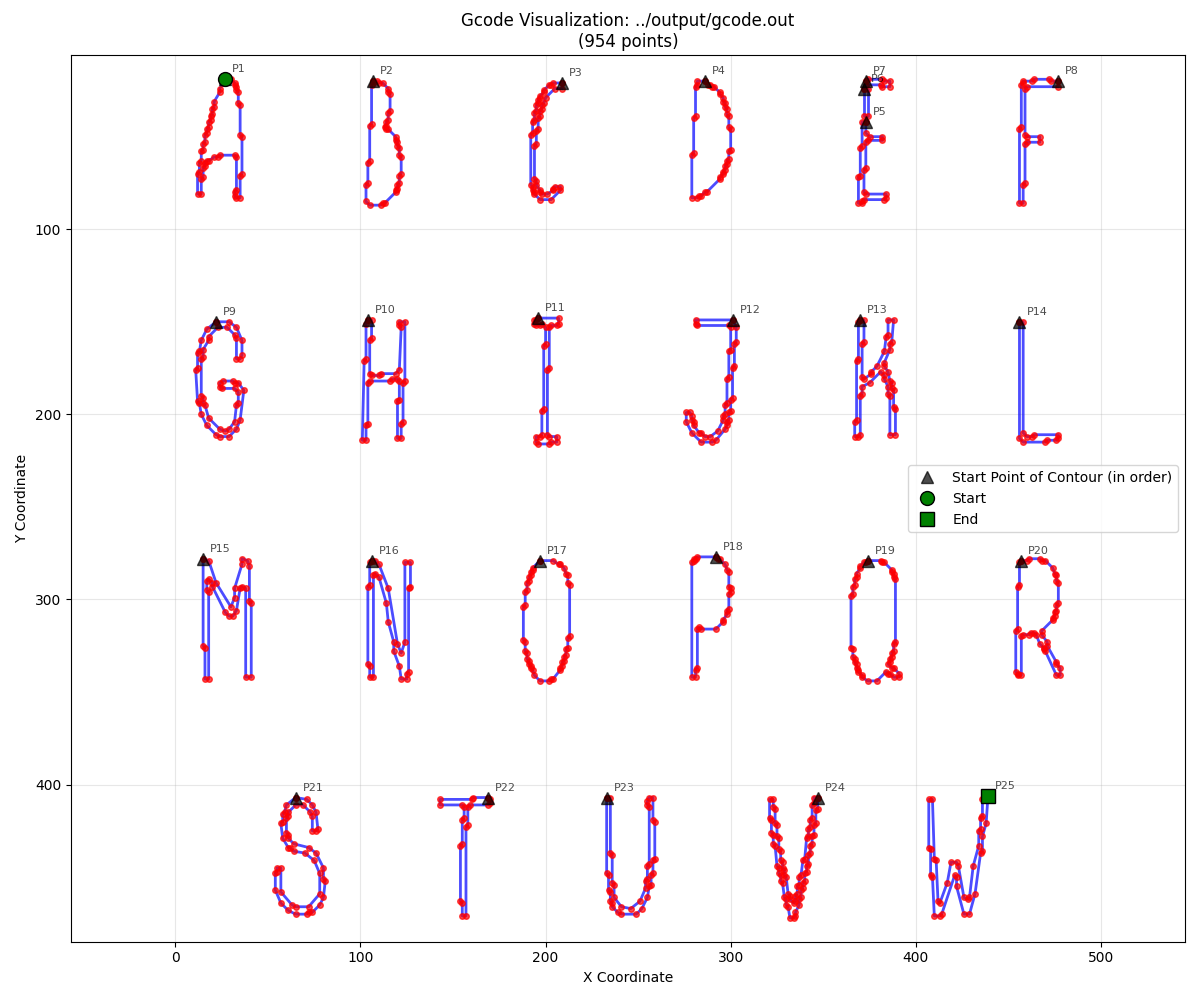
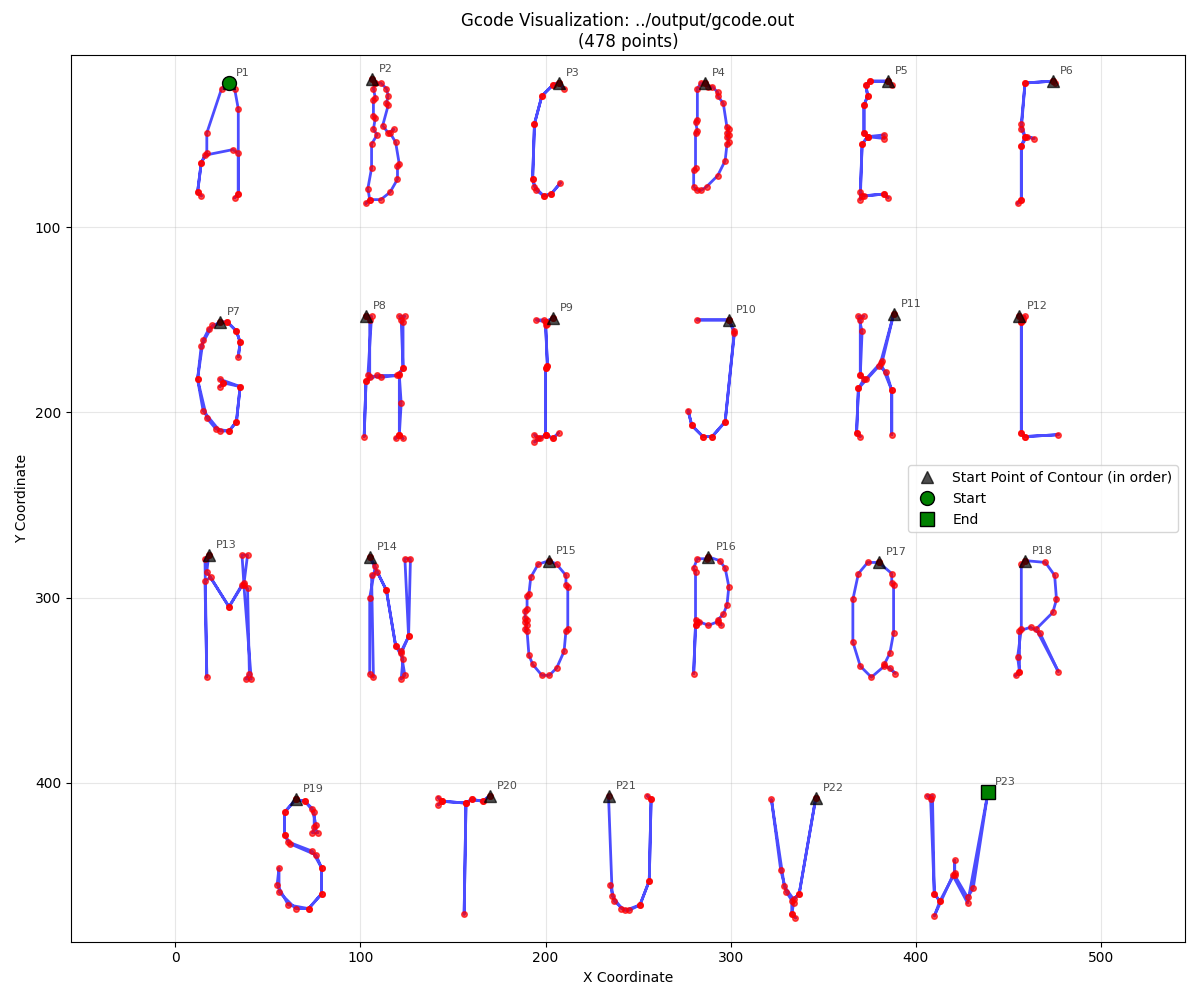
added line thinning

diff --git a/source/driver.py b/source/driver.py
@@ -8,8 +8,7 @@ import pdb
 import math
 from visual import *
 #from simplify_points import *
-#from skimage.morphology import skeletonize
-
+from skimage.morphology import medial_axis, skeletonize
 
 # Setup directories
 input_folder = "../data"
@@ -46,14 +45,58 @@ class GcodeConverter:
         gray = cv2.cvtColor(img, cv2.COLOR_BGR2GRAY)
 
 
-        _, binary = cv2.threshold(gray, 220, 255, cv2.THRESH_BINARY_INV)
-        
-        # clean up noises and blurs
-        kernel = np.ones((3,3), np.uint8)
-        binary = cv2.morphologyEx(binary, cv2.MORPH_OPEN, kernel)
-        
-        return img, binary
+        _, binary = cv2.threshold(gray, 150, 255, cv2.THRESH_BINARY_INV)
+ 
+
+        # Use smaller kernel, fewer iterations
+        kernel = np.ones((3, 3), np.uint8)  # Much smaller
+        binary = cv2.dilate(binary, kernel, iterations=1)  # Just onc
+
+        # Skeletonize to get center lines
+        binary_bool = binary > 0
+        skeleton, _ = medial_axis(binary_bool, return_distance=True)
+        cleaned = (skeleton * 255).astype(np.uint8)
+
+
+
+        return img, cleaned
     
+
+
+    def filter_duplicates(self, contours, min_distance=1):
+        """
+        Remove contours whose bounding boxes are too close
+        """
+        if len(contours) <= 1:
+            return contours
+        
+
+        bounding_boxes = [cv2.boundingRect(cnt) for cnt in contours]
+        
+        unique_contours = []
+        used_indices = set()
+        
+        for i, (x1, y1, w1, h1) in enumerate(bounding_boxes):
+            if i in used_indices:
+                continue
+                
+            unique_contours.append(contours[i])
+            used_indices.add(i)
+            
+            for j, (x2, y2, w2, h2) in enumerate(bounding_boxes):
+                if j not in used_indices:
+                    # Calculate center distance
+                    cx1, cy1 = x1 + w1/2, y1 + h1/2
+                    cx2, cy2 = x2 + w2/2, y2 + h2/2
+                    distance = np.sqrt((cx1 - cx2)**2 + (cy1 - cy2)**2)
+                    
+                    if distance < min_distance:
+                        used_indices.add(j)
+                        print(f"Removed nearby contour {j} (distance: {distance:.1f})")
+        
+        return unique_contours
+    
+  
     """sort contours from top to bottom, left to right"""
     def sort_contours(self, contours, row_height_threshold=50):
         # Get the height and width for each contour 
@@ -96,14 +139,15 @@ class GcodeConverter:
 
 
     """Write gcode to output file"""
-    def image_to_gcode(self, image, output_file):
-        original_img, binary_img = self.preprocess(image)
-        
-        # Find contours and sort it
-        contours, _ = cv2.findContours(binary_img, cv2.RETR_EXTERNAL, cv2.CHAIN_APPROX_NONE) 
-        contours, _= self.sort_contours(contours)
-        #contours = [c for c in contours if cv2.contourArea(c) > 100]  # can be used to filter out small contours
+    def image_to_gcode(self, image_path, output_file, threshold_Closed = 0.3, precision=0.005):
+        _, binary_img = self.preprocess(image_path)
 
+        # Find contours and sort it
+        contours_org, _ = cv2.findContours(binary_img, cv2.RETR_EXTERNAL, cv2.CHAIN_APPROX_SIMPLE)
+        contours = self.filter_duplicates(contours_org)
+
+        contours = [c for c in contours if len(c) > 5]  # filter ouxt small contours
+        contours, _ = self.sort_contours(contours)
 
         # Open file for writing
         with open(output_file, 'w') as f:
@@ -118,12 +162,18 @@ class GcodeConverter:
                 start = all_points[0]
                 end = all_points[-1]
                 distance = np.linalg.norm(start - end)
+
+                # compare the distance to contour size
+                x, y, w, h = cv2.boundingRect(contour)
+                contour_size = np.linalg.norm([w, h])
+                threshold = contour_size * threshold_Closed
                 isClosed = False
-                if distance < 5.0:  # if distance between start and end is close, close the path
-                    isClosed = True
+                if distance < threshold:  
+                    isClosed = True     # if distance between start and end is close, close the path
             
-                # simplify the points in the contour (adjustable for shape precision)
-                epsilon = 0.002 * cv2.arcLength(contour, True)
+                # simplify the points in the contour 
+                perimeter = cv2.arcLength(contour, True)
+                epsilon = precision * perimeter   #(adjustable for shape precision)
                 simplified = cv2.approxPolyDP(contour, epsilon, True)
                 points = simplified.reshape(-1, 2)
 
@@ -140,7 +190,7 @@ class GcodeConverter:
                 for point in points[1:]:
                     f.write(f"G1 X{point[0]:.2f} Y{point[1]:.2f}\n")
 
-                if isClosed:  # connect end to start if closed path
+                if isClosed:      # connect end to start if closed path
                     f.write(f"G1 X{points[0][0]:.2f} Y{points[0][1]:.2f}\n")
 
                 f.write(f"{self.M_UP}\n")
@@ -157,6 +207,7 @@ def main():
     converter = GcodeConverter()
 
     try:
+ 
         image_path = f"{input_folder}/{src_file}" 
         output_file = converter.image_to_gcode(image_path, f"{output_folder}/{output}")
         print(f"G-code saved to: {output_file}")
@@ -169,169 +220,3 @@ def main():
 if __name__ == "__main__":
     main()
     
-
-
-
-
-
-
-
-
-
-
-# import subprocess
-# import os
-# import cv2
-# import numpy as np
-# import pdb
-# #from sklearn.neighbors import NearestNeighbors
-# import math
-
-
-
-# # Setup directories
-# input_folder = "data"
-# output_folder = "output"
-# src_file = "test_image.png"
-# output = "gcode.out"
-# if not os.path.exists(output_folder):
-#     os.makedirs(output_folder)
-
-# # user-configurable drawing dimension in pixels
-# INPUT_WIDTH = 1000 
-# INPUT_HEIGHT = 1500
-
-# # RGB thresholds for 3 uniquecolors
-# color_thres = {
-#     'red': {
-#         'lower': [150, 0, 0],     
-#         'upper': [255, 50, 50]     
-#     },
-#     'green': {
-#         'lower': [0, 150, 0],     
-#         'upper': [50, 255, 50]    
-#     },
-#     'blue': {
-#         'lower': [0, 0, 150],     
-#         'upper': [50, 50, 255]    
-#     }
-# }
-
-
-# class GcodeConverter:
-#     def __init__(self):
-#         self.M_UP = "M5"
-#         self.M_DOWN = "M3"
-   
-    
-#     """IMAGE PREPROCESSING"""
-#     def preprocess_image(self, image):
-#         img = cv2.imread(image)
-#         if img is None:
-#             raise ValueError(f"Could not load image from {image}")
-
-#         # Resize image
-#         img = cv2.resize(img, (INPUT_WIDTH, INPUT_HEIGHT))
-    
-
-#         # TO_DO: use a mask for processing 3 different color threshold 
-#         gray = cv2.cvtColor(img, cv2.COLOR_BGR2GRAY)
-#         _, binary = cv2.threshold(gray, 200, 255, cv2.THRESH_BINARY_INV)
-#         # clean up noises and blurs
-#         kernel = np.ones((3,3), np.uint8)
-#         binary = cv2.morphologyEx(binary, cv2.MORPH_OPEN, kernel)
-        
-#         return img, binary
-    
-#     """G_CODE GENERATER"""
-#     def image_to_gcode(self, image, output_file):
-#         original_img, binary_img = self.preprocess_image(image)
-        
-#         # Find contours
-#         contours, _ = cv2.findContours(binary_img, cv2.RETR_EXTERNAL, cv2.CHAIN_APPROX_SIMPLE)
-#         contours = [c for c in contours if cv2.contourArea(c) > 100]
-#         print(f"Found {len(contours)} contours")
-        
-#         # Open file for writing
-#         with open(output_file, 'w') as f:
-#             f.write("G90\n")        # Absolute positioning to startpoint
-             
-#             # Process each contour and write directly to file
-#             for i, contour in enumerate(contours):
-#                 print(f"Processing contour {i+1}/{len(contours)}")
-#                 self.write_contour_to_file(f, contour, i+1)
-            
-#             f.write("M30\n")       # end of drawing, program completes
-        
-#         # Visualize results
-#       #  self.visualize_results(original_img, contours, "detected_contours.png")
-#         print(f"G-code successfully written to {output_file}")
-#         return output_file
-    
-   
-#     """helper function for g-code generation for each contour"""
-#     def write_contour_to_file(self, file_handle, contour, contour_number):
-        
-#         # Add simplication for reducing points in a countour to speed up the robot it needed
-#         # Needs to simplify straight lines and leave curves alone, the commented code oversimplify curves which is bad
-#        # epsilon = 0.01 * cv2.arcLength(contour, True)
-#        # simplified = cv2.approxPolyDP(contour, epsilon, True)
-#          # Calculate shape properties for smart simplification
-#             # Smart simplification that preserves shapes
-#         points = contour.reshape(-1, 2)
-#         if len(points) < 2:
-#             return
-    
-#         # Basic simplification - good for pentagons
-#         if len(points) > 15:
-#             epsilon = 0.02 * cv2.arcLength(contour, True)
-#             simplified = cv2.approxPolyDP(contour, epsilon, True)
-#             points = simplified.reshape(-1, 2)
-            
-  
-                
-        
-#         # move to starting position, tool down, and trace
-#         file_handle.write(f"Contour {contour_number}\n")
-#         file_handle.write(f"G0 X{points[0][0]:.2f} Y{points[0][1]:.2f}\n")
-#         file_handle.write(f"{self.M_DOWN}\n")
-        
-#         # Draw the contour
-#         for point in points[1:]:
-#             file_handle.write(f"G1 X{point[0]:.2f} Y{point[1]:.2f}\n")
-        
-#         # done
-#         file_handle.write(f"{self.M_UP}\n")
-#         file_handle.write("\n")  
-    
-
-
-#     # def visualize_results(self, original_img, contours, output_path):
-#     #     """Create visualization image"""
-#     #     vis_img = original_img.copy()
-#     #     cv2.drawContours(vis_img, contours, -1, (0, 255, 0), 2)
-        
-#     #     for i, contour in enumerate(contours):
-#     #         if len(contour) > 0:
-#     #             start_point = tuple(contour[0][0])
-#     #             cv2.circle(vis_img, start_point, 5, (0, 0, 255), -1)
-        
-#     #     cv2.imwrite(output_path, vis_img)
-#     #     print(f"Visualization saved as {output_path}")
-
-
-
-# def main():
-#     converter = GcodeConverter()
-
-#     try:
-#         image_path = f"{input_folder}/{src_file}" 
-#         output_file = converter.image_to_gcode(image_path, f"{output_folder}/{output}")
-#         print(f"G-code saved to: {output_file}")
-        
-#     except Exception as e:
-#         print(f"Error with g-code generation: {e}")
-
-
-# if __name__ == "__main__":
-#     main()

diff --git a/source/visual.py b/source/visual.py
@@ -1,7 +1,10 @@
 import matplotlib.pyplot as plt
 import re
 
-def extract_g1_coordinates(gcode_file_path):
+
+
+
+def extract_points(gcode_file_path):
     """
     Extract only X,Y coordinates from G1 commands in G-code file
     
@@ -20,7 +23,7 @@ def extract_g1_coordinates(gcode_file_path):
                 contour_num = contour_match.group(1)
                 print(f"contour number: {contour_num}")
             
-            # # Only process G1 commands
+            # process all points
             if line.startswith('G1') or line.startswith('G0'):                    
                 # Extract X and Y coordinates using regex
                 x_match = re.search(r'X([-\d.]+)', line)
@@ -53,7 +56,7 @@ def extract_g1_coordinates(gcode_file_path):
 def visualize_g1_coordinates(gcode_file_path):
 
     # Extract all points
-    all_points, g0_points = extract_g1_coordinates(gcode_file_path)
+    all_points, g0_points = extract_points(gcode_file_path)
     if not all_points:
         print("No G1 coordinates found in the file")
         return []
@@ -107,7 +110,6 @@ def visualize_g1_coordinates(gcode_file_path):
 
     
 
-  
     # # Plot G0 points (the starting point for each contour)
     plt.plot(x_g0, y_g0, 'k^', markersize = 8, alpha = 0.7, label = 'Start Point of Contour (in order)')
     
